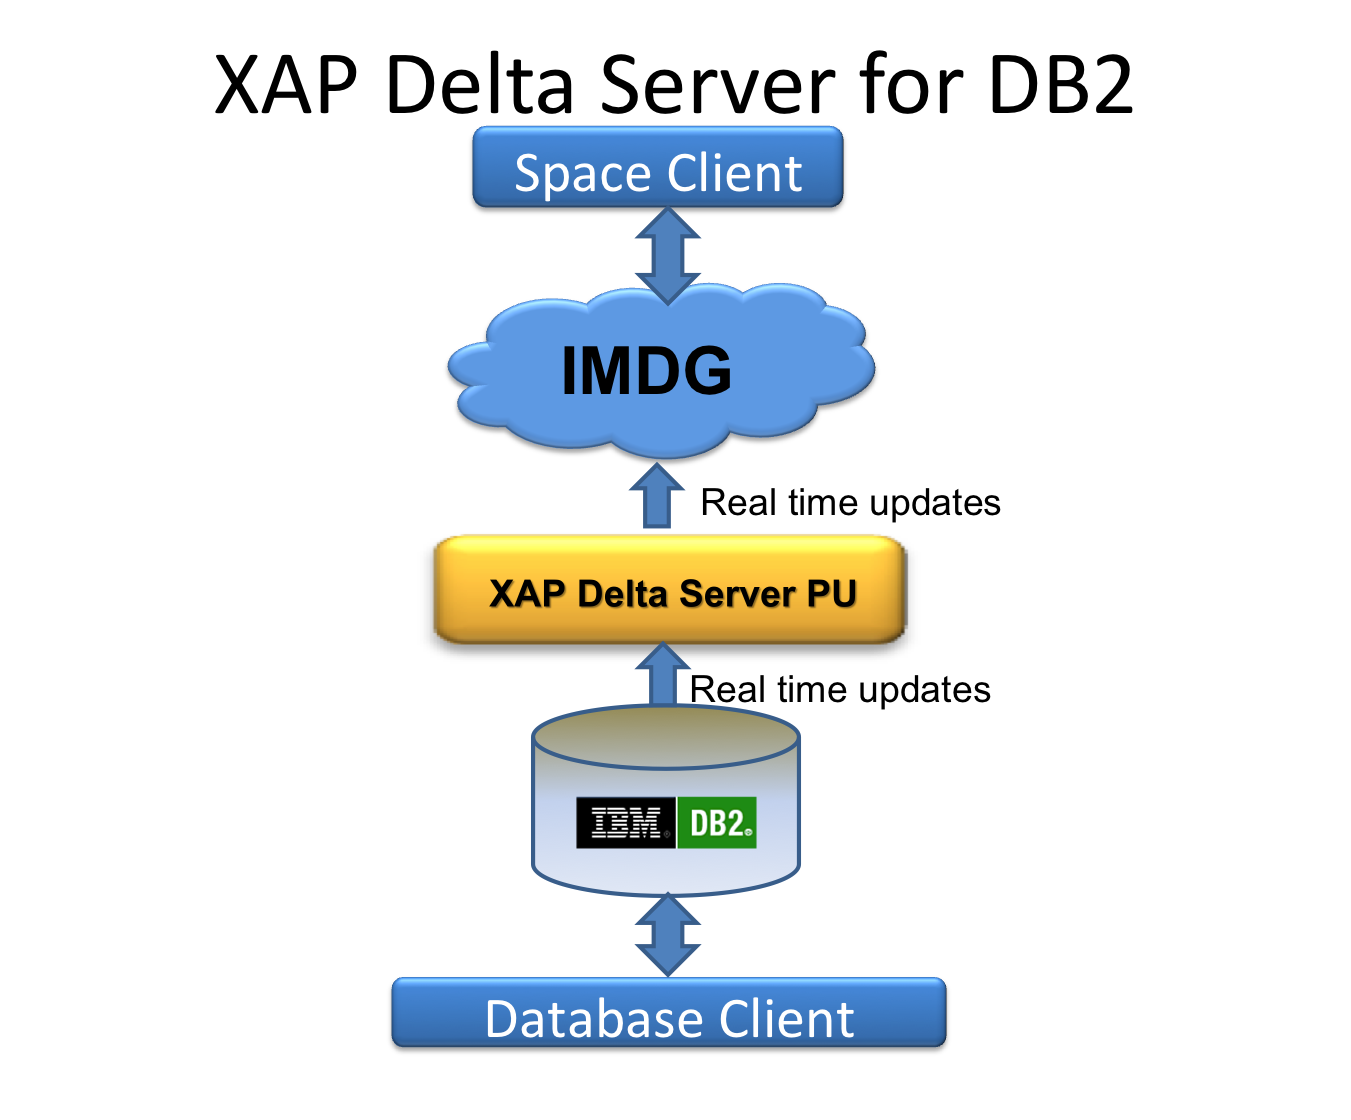
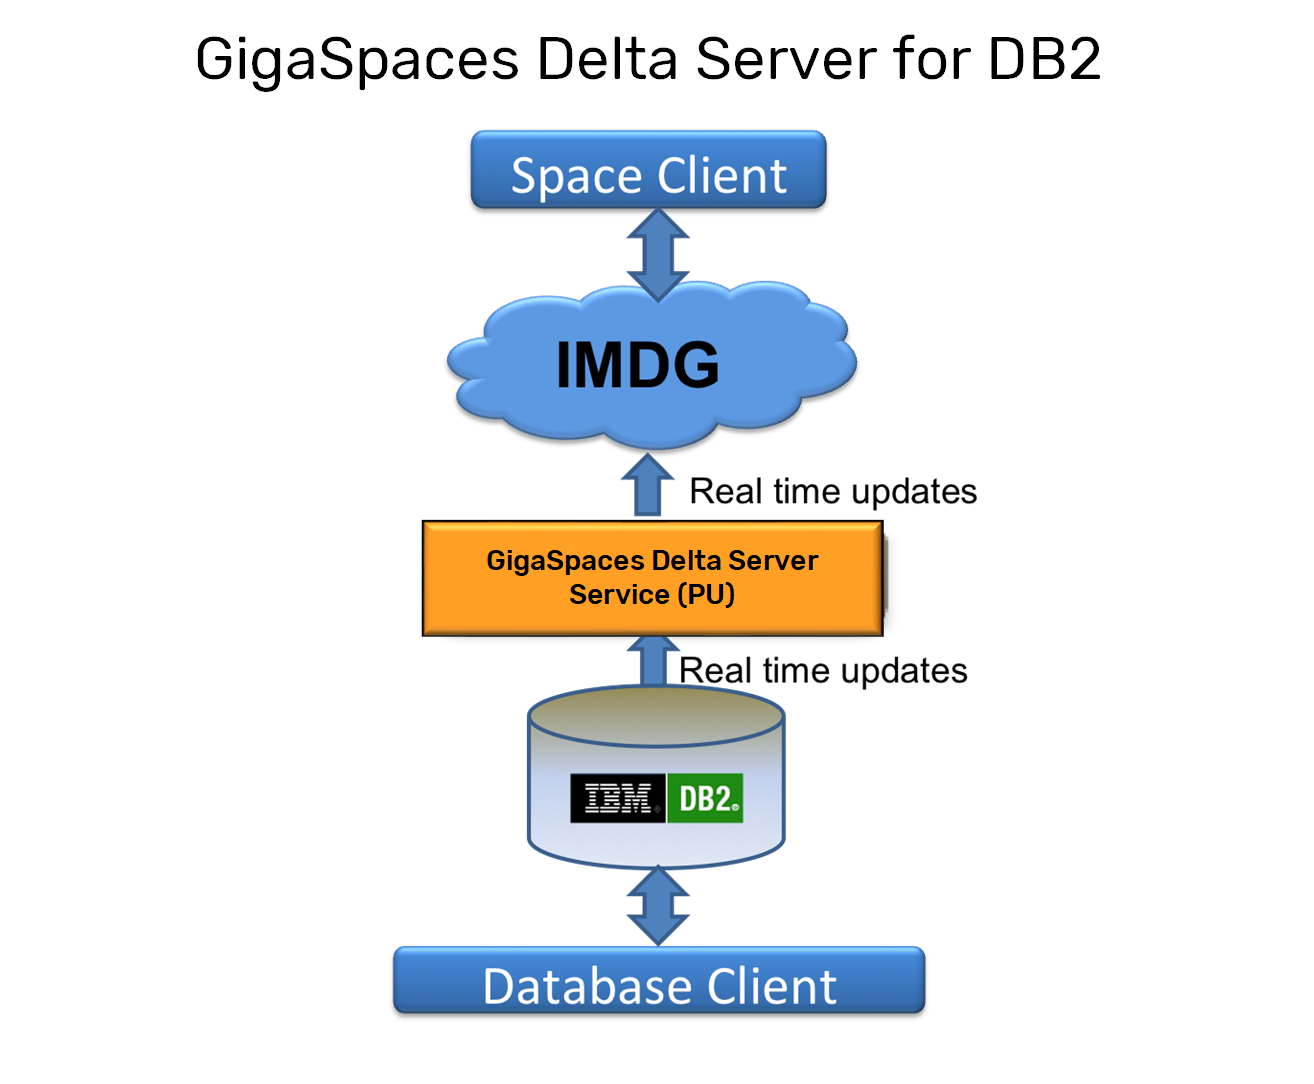
DOC-645 updated DB2 Delta Server topic links and diagram

diff --git a/site-flare/Content/solution-hub/db2-delta-server.html b/site-flare/Content/solution-hub/db2-delta-server.html
@@ -19,9 +19,10 @@
                     <td>Chris Roffler</td>
                     <td>9.6</td>
                     <td>Nov 2013</td>
+                    <td> </td>
                     <td>
-                    </td>
-                    <td>
+                        <p><a href="https://github.com/Gigaspaces/solution-hub/blob/master/db2gs.jar">DB2 demo</a>
+                        </p>
                     </td>
                 </tr>
             </tbody>
@@ -31,19 +32,19 @@
         <MadCap:snippetBlock src="../Resources/Snippets/YouTube.flsnp" MadCap:snippetVariables="Links.YouTube:https://youtu.be/tBdphj2hjXk," />
         <p>The Delta Server described with this pattern responsible for getting notifications from the database for any user activity (excluding data grid updates) and delegate these to the data grid. You may specify the exact data set updates to be delegated to the data grid.</p>
         <h1><a name="scenario">&#160;</a>Scenario</h1>
-        <p>We have an In Memory Data Grid (IMDG) that is used for querying information. The initial load of the IMDG was performed from a DB2 Database. The IMDG is not used as a system of record in this case meaning that any changes to the objects in the IMDG are not propagated back into the Database. Non-Aware Data-Grid Clients are updating the Database. These updates (insert,update and delete) need to be reflected in the IMDG.</p>
+        <p>We have an In-Memory Data Grid (IMDG) that is used for querying information. The initial load of the data grid was performed from a DB2 Database. The data grid is not used as a system of record in this case, meaning that any changes to the objects in the data grid are not propagated back to the database. Non-Aware Data-Grid Clients are updating the Database. These updates (insert, update and delete) need to be reflected in the data grid.</p>
         <div class="tc-align-center">
             <p><a href="../Resources/Static/attachment_files/sbp/ibm-d-server.png"><img src="../Resources/Static/attachment_files/sbp/ibm-d-server.png" width="400" height="300" /></a>
             </p>
         </div>
-        <p>We will show you how you can implement this scenario with <MadCap:variable name="General.ProductNameXAP" />. A fully functional example is available for <a href="/download_files/sbp/db2gs.jar">download</a>.</p>
+        <p>We will show you how you can implement this scenario with <MadCap:variable name="General.ProductNameXAP" />. A fully functional example is available for <a href="https://github.com/Gigaspaces/solution-hub/blob/master/db2gs.jar">download</a>.</p>
         <h1><a name="prerequisites">&#160;</a>Prerequisites</h1>
         <ul>
             <li>DB2 Advanced Server 10+ installation using default user (db2inst1) and group (dasadmin1)</li>
             <li>MQ Server 7+ installed using the default user group mqm and add user db2inst1 to mqm group</li>
         </ul>
         <h1><a name="installation">&#160;</a>Installation</h1>
-        <p>For simplicity, we install and execute this demo using the DB2 default user db2inst1. Log in to the Linux machine using the user db2inst1. <a href="/download_files/sbp/db2gs.jar">download</a> the sample code and extract to a folder say /home/db2inst1/db2mqrep. We'll refer to this path as DEMO_HOME.</p>
+        <p>For simplicity, we install and execute this demo using the DB2 default user db2inst1. Log in to the Linux machine using the user db2inst1. <a href="https://github.com/Gigaspaces/solution-hub/blob/master/db2gs.jar">Download</a> the sample code and extract to a folder, say /home/db2inst1/db2mqrep. We'll refer to this path as DEMO_HOME.</p>
         <p>The following JAR&#160;files are needed for this example:</p><pre><code class="language-java">
  These files must be copied from the MQ server that you are running against.
 
@@ -85,7 +86,7 @@
  Connecting to database "PUBSRC"...
  .........
 </code></pre>
-        <h3><a name="setting-up-the-mq-queue-managers">&#160;</a>Setting up the MQ Queue Managers</h3>
+        <h3><a name="setting-up-the-mq-queue-managers">&#160;</a>Setting Up the MQ Queue Managers</h3>
         <p>If the db2inst1 account is not part of the mqm group, then you need to add it to the group.
  In this step we will setup the replication for the database changes. Execute the following script using the asnclp command:</p><pre><code class="language-java"> asnclp -f demomq.asnclp
 </code></pre>
@@ -148,6 +149,6 @@
  db2 "insert into employee(empno, firstnme, lastname, edlevel,workdept) values ('000016','SALLY','JOHNSON',18,'A00')";
 
 </code></pre>
-        <p>If you start the GigaSpaces Managemennt Center, you should see under "mySpace" the entries we have inserted into the database.</p>
+        <p>If you start the GigaSpaces Management Center, you should see under "mySpace" the entries we have inserted into the database.</p>
     </body>
 </html>
